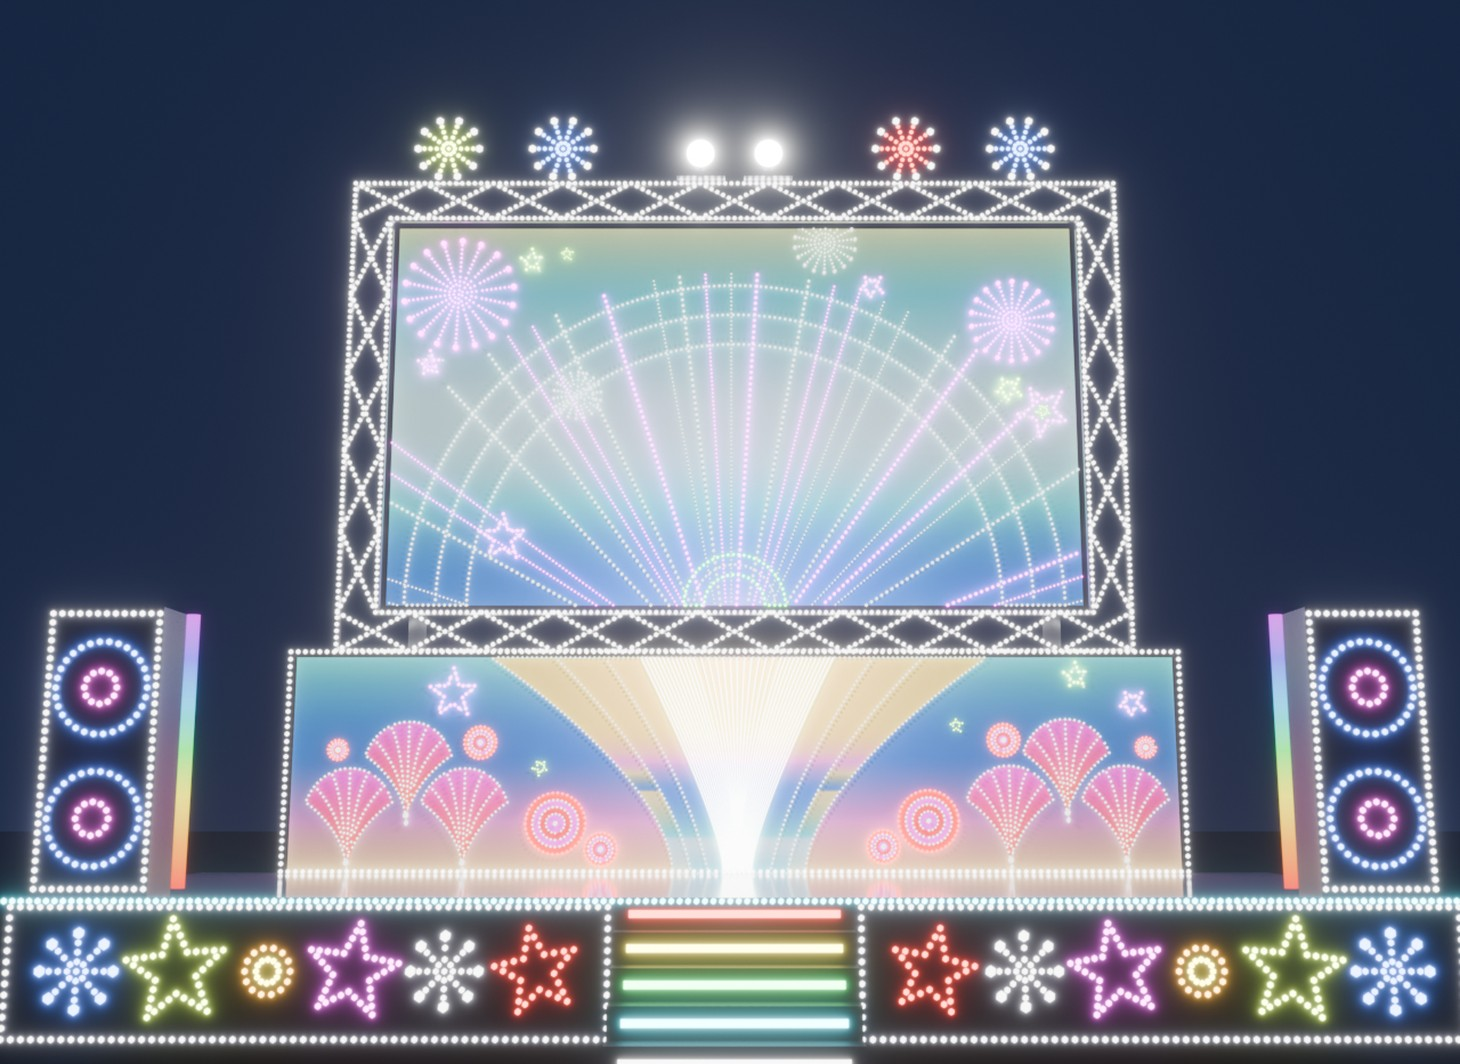
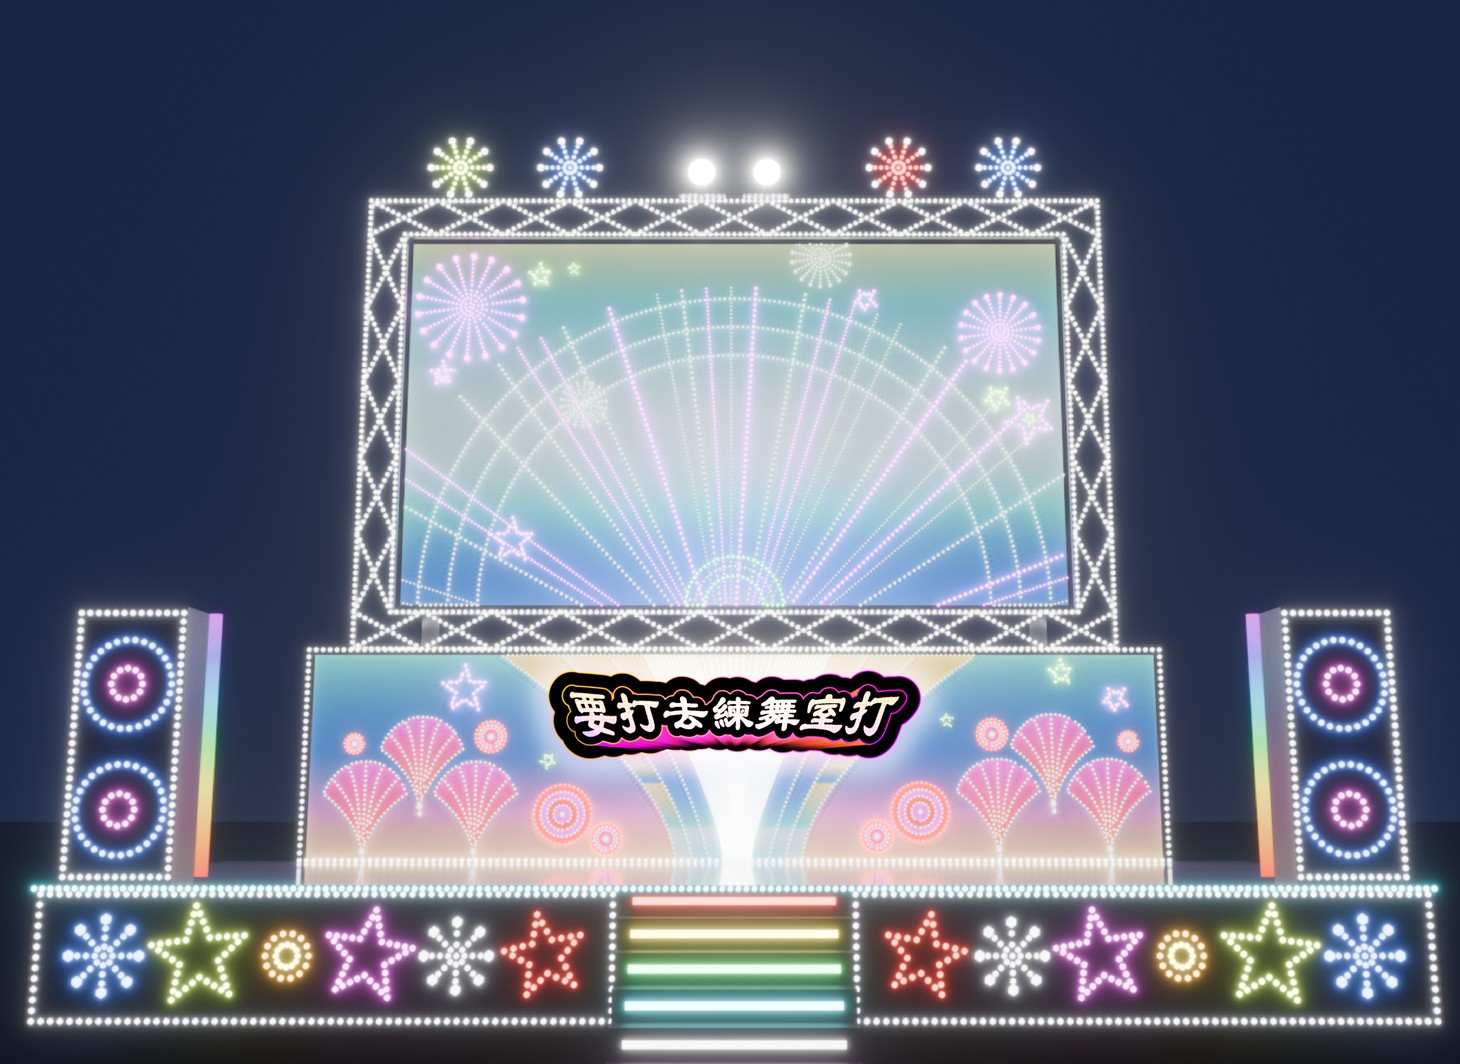
[fix]舞台加上字

diff --git a/js/lib/float-stage.js b/js/lib/float-stage.js
@@ -46,6 +46,16 @@ const CONFIG = {
   artBrightness: 0.8,      // 圖稿看板的亮度（不要超過 1，不然圖會被光暈糊掉）
   rainbowTubes: true,       // 兩支「直立燈管」做成彩虹燈
 
+  // 「要打去練舞室打」logo：貼在下層背板正中間（Blender 座標，跟 dancer 一樣）
+  logo: {
+    image: "assets/stage/hall/sign.png",   // 跟復古舞廳共用同一張霓虹招牌圖
+    width: 3.6,             // 寬度（公尺）；高度照圖的比例自動算
+    x: 0,                   // 左右（0 = 正中間）
+    y: 0.9,                 // 前後：背板在 1.0，數字越小越往前（不要大於 0.93，不然會被燈泡擋住）
+    z: 2.8,                 // 高度：背板從 1.3 到 3.34
+    brightness: 0.95,       // 亮度（太亮會被光暈糊掉）
+  },
+
   // LED 一閃一閃（燈泡、霓虹燈條、樓梯燈條、彩虹燈管都會）
   blink: {
     on: true,               // false = 不閃，一直亮著
@@ -264,6 +274,7 @@ function addBlinkAttributes(mesh) {
 }
 
 const artMaterials = [];   // 圖稿看板的材質（暗場時一起變暗）
+let logoMaterial = null;    // logo 的材質（暗場時一起變暗）
 
 function prepareModel(root) {
   const converted = new Map();   // 同一個材質只換一次
@@ -356,6 +367,29 @@ function buildFloatWorld(gltf) {
   prepareModel(model);
   group.add(model);
 
+  // logo 看板
+  if (CONFIG.logo && CONFIG.logo.image) {
+    const L = CONFIG.logo;
+    const logoMat = new THREE.MeshBasicMaterial({ transparent: true, depthWrite: false, toneMapped: false });
+    logoMat.color.setScalar(L.brightness);
+    const logoMesh = new THREE.Mesh(new THREE.PlaneGeometry(L.width, L.width * 265 / 999), logoMat);
+    logoMesh.position.copy(V(L.x, L.y, L.z));
+    logoMesh.renderOrder = 2;
+    logoMesh.visible = false;   // 圖載好才顯示，不然會先看到一塊白板
+    group.add(logoMesh);
+    new THREE.TextureLoader().load(L.image, function (tex) {
+      tex.colorSpace = THREE.SRGBColorSpace;
+      tex.anisotropy = 8;
+      logoMat.map = tex;
+      logoMesh.scale.y = (tex.image.height / tex.image.width) / (265 / 999);
+      logoMat.needsUpdate = true;
+      logoMesh.visible = true;
+    }, undefined, function () {
+      console.warn("logo 圖片載入失敗：" + L.image);
+    });
+    logoMaterial = logoMat;
+  }
+
   // 舞台面高度：從模型裡的「舞台地板」量出來，你在 Blender 改高度這裡也會跟著變
   let top = 1.3;
   const floor = model.getObjectByName("舞台地板");
@@ -375,6 +409,7 @@ function buildFloatWorld(gltf) {
     applyMaster: function (m) {
       blinkUniforms.uMaster.value = m;
       artMaterials.forEach((mat) => mat.color.setScalar(CONFIG.artBrightness * m));
+      if (logoMaterial) logoMaterial.color.setScalar(CONFIG.logo.brightness * m);
     },
     update: null,
   };
